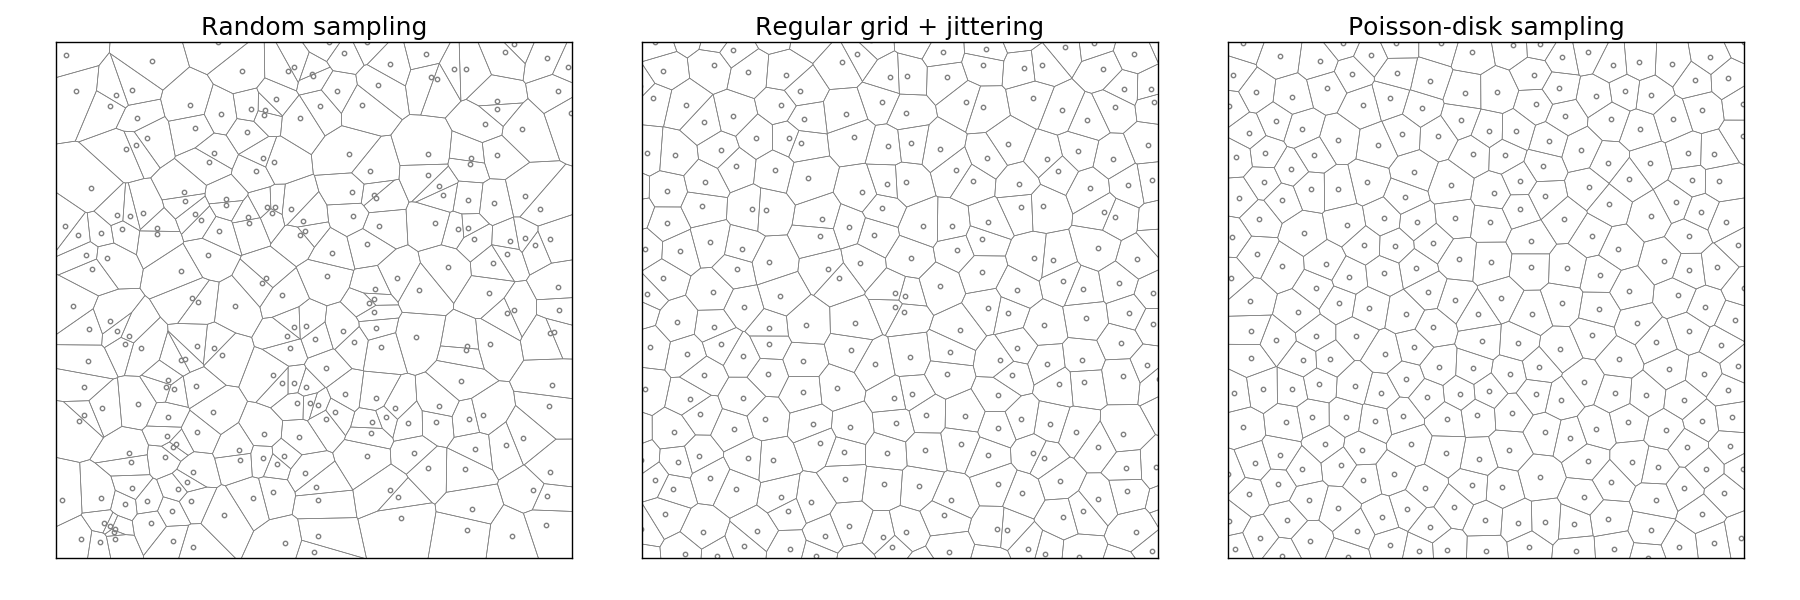
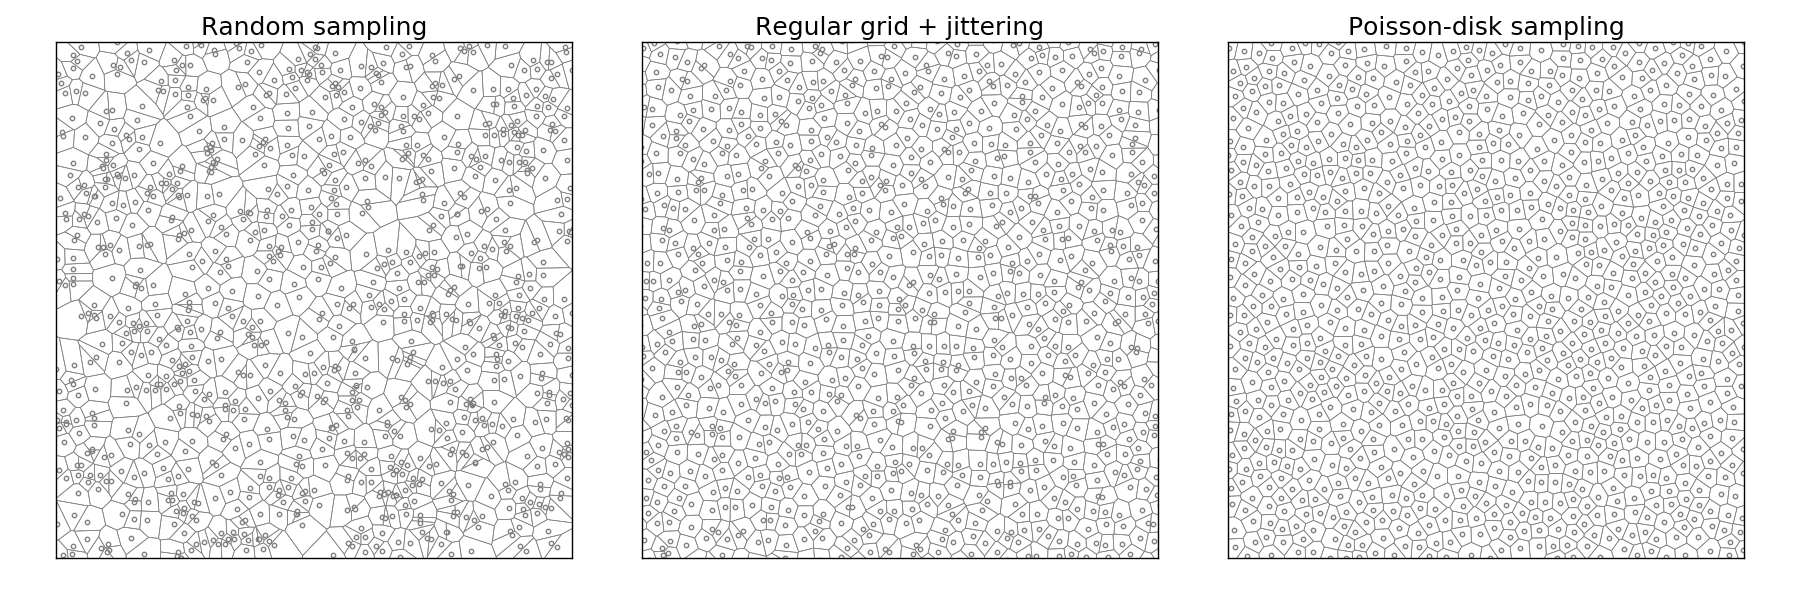
Denser sampling

Changed region(s): [[0.0311, 0.06, 0.6533, 0.93], [0.6844, 0.06, 0.9644, 0.93]]

diff --git a/code/sampling.py b/code/sampling.py
@@ -51,7 +51,7 @@ def poisson_disk_sample(width=1.0, height=1.0, radius=0.025, k=30):
     cellsize = radius/np.sqrt(2)
     rows = int(np.ceil(width/cellsize))
     cols = int(np.ceil(height/cellsize))
-    
+
     # Squared radius because we'll compare squared distance
     squared_radius = radius*radius
 
@@ -91,7 +91,7 @@ if __name__ == '__main__':
     fig = plt.figure(figsize=(18, 6))
 
     ax = plt.subplot(1, 3, 1, aspect=1)
-    n=256
+    n = 1000
     X = np.random.uniform(0, 1, n)
     Y = np.random.uniform(0, 1, n)
     ax.scatter(X, Y, s=10, facecolor='w', edgecolor='0.5')
@@ -103,7 +103,7 @@ if __name__ == '__main__':
     ax.add_collection(lines)
 
     ax = plt.subplot(1, 3, 2, aspect=1)
-    n = 16
+    n = 32
     X, Y = np.meshgrid(np.linspace(0, 1, n), np.linspace(0, 1, n))
     X += 0.45*np.random.uniform(-1/n, 1/n, (n, n))
     Y += 0.45*np.random.uniform(-1/n, 1/n, (n, n))
@@ -114,9 +114,9 @@ if __name__ == '__main__':
     segments = voronoi(X.ravel(), Y.ravel())
     lines = LineCollection(segments, color='0.5', linewidth=0.5)
     ax.add_collection(lines)
+
     ax = plt.subplot(1, 3, 3, aspect=1)
-    P = poisson_disk_sample(width=1.0, height=1.0, radius=0.05, k=30)
-    
+    P = poisson_disk_sample(width=1.0, height=1.0, radius=0.025, k=30)
     plt.scatter(P[:, 0], P[:, 1], s=10, facecolor='w', edgecolor='0.5')
     ax.set_xlim(0, 1), ax.set_ylim(0, 1)
     ax.set_xticks([]), ax.set_yticks([])

diff --git a/book/05-problem-vectorization.md b/book/05-problem-vectorization.md
@@ -17,6 +17,7 @@
 **Code**
 
   * [sampling.py](../code/sampling.py)
+  * [voronoi.py](../code/voronoi.py)
 
 **References**
 
